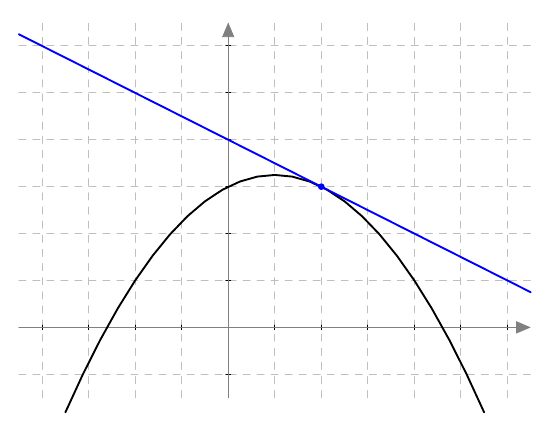
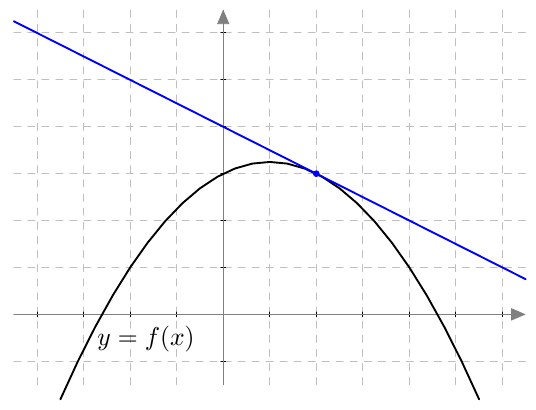
Lisää

diff --git a/kurssit/maa6/luku1/index.html b/kurssit/maa6/luku1/index.html
@@ -57,10 +57,15 @@ topnav: maa6
                 <br>
                 <img src="/kurssit/maa3/kuvat/tasoK41.png" max-width: 100%; width: auto; height: auto;/>
                 <br>
-                Samaan tapaan voidaan piirtää tangetti myös funktion kuvaajalle. Esimerkiksi alla olevassa kuvassa on piirretty funktion kuvaajalle tangentti kohtaan $x = 2$.
+                Samaan tapaan voidaan piirtää tangetti myös funktion kuvaajalle. Esimerkiksi alla olevassa kuvassa on piirretty funktion $f$ kuvaajalle tangentti kohtaan $x = 2$.
                 <br>
                 <img src="/kurssit/maa6/kuvat/kuva01.png" max-width: 100%; width: auto; height: auto;/>
-
+                <br>
+                Tangentin kulmakerroin antaa tietoa funktion kuvaajan jyrkkyydestä tarkastelukohdassa. Tässä tapauksessa tangetin kulmakerroin on $-0{,}5$, kuten alla olevasta kuvasta voidaan päätellä. 
+                <br>
+                <img src="/kurssit/maa6/kuvat/kuva02.png" max-width: 100%; width: auto; height: auto;/>
+                <br>
+                Funktion kuvaajan kohtaan $x = a$ piirretyn tangentin kulmakerroin on toiselta nimeltään funktion derivaatta kohdassa $x = a$. Esimerkiksi tässä tarkastellun funktion $f$ derivaatta kohdassa $x = 2$ on $-0{,}5$. 
             </p>
 
             <div class="definition">
